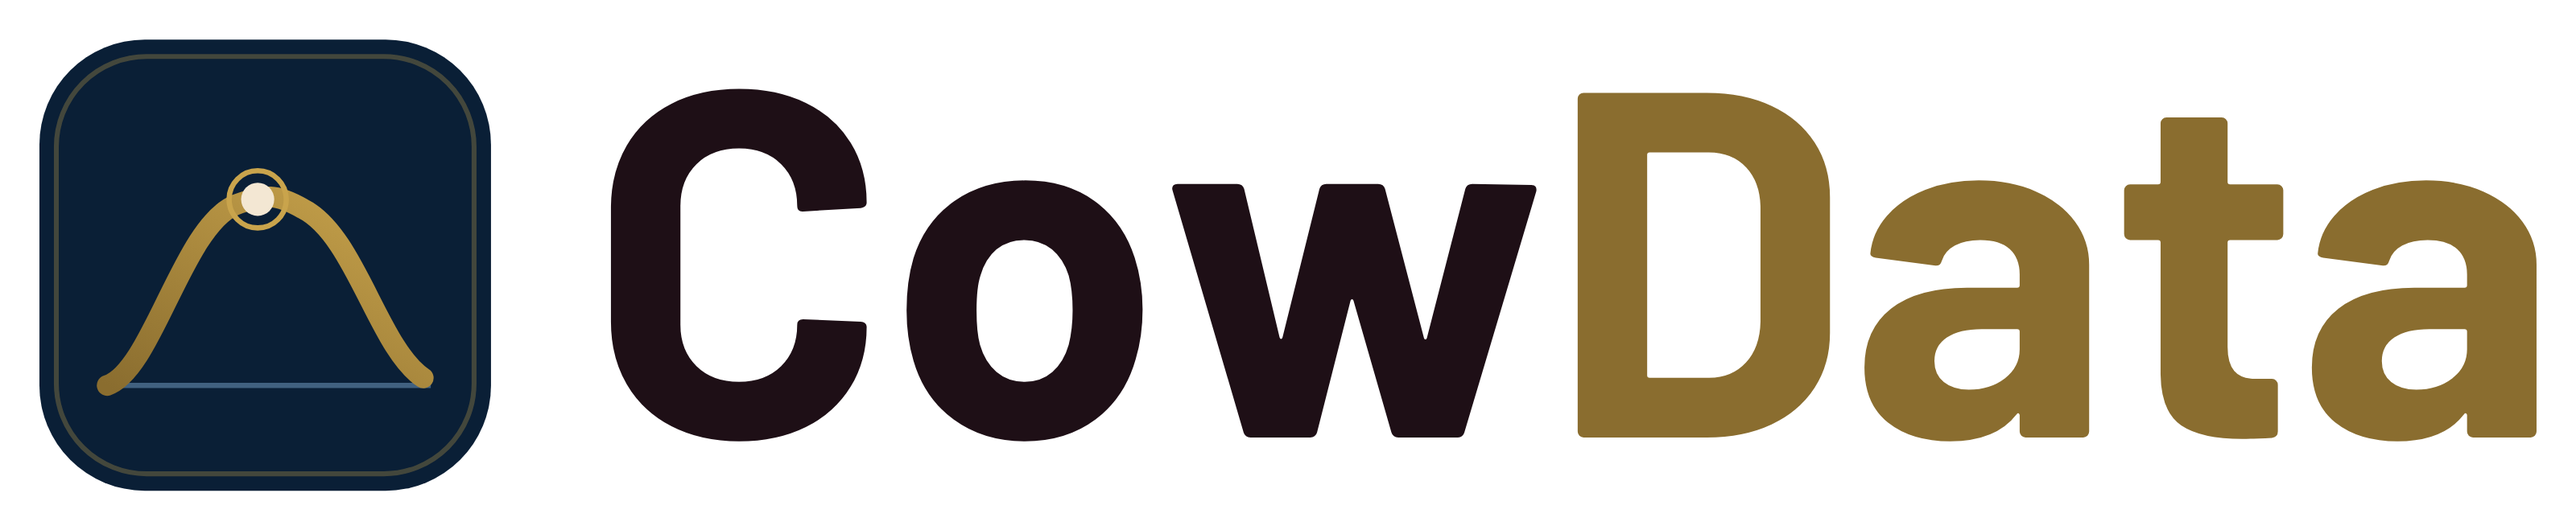
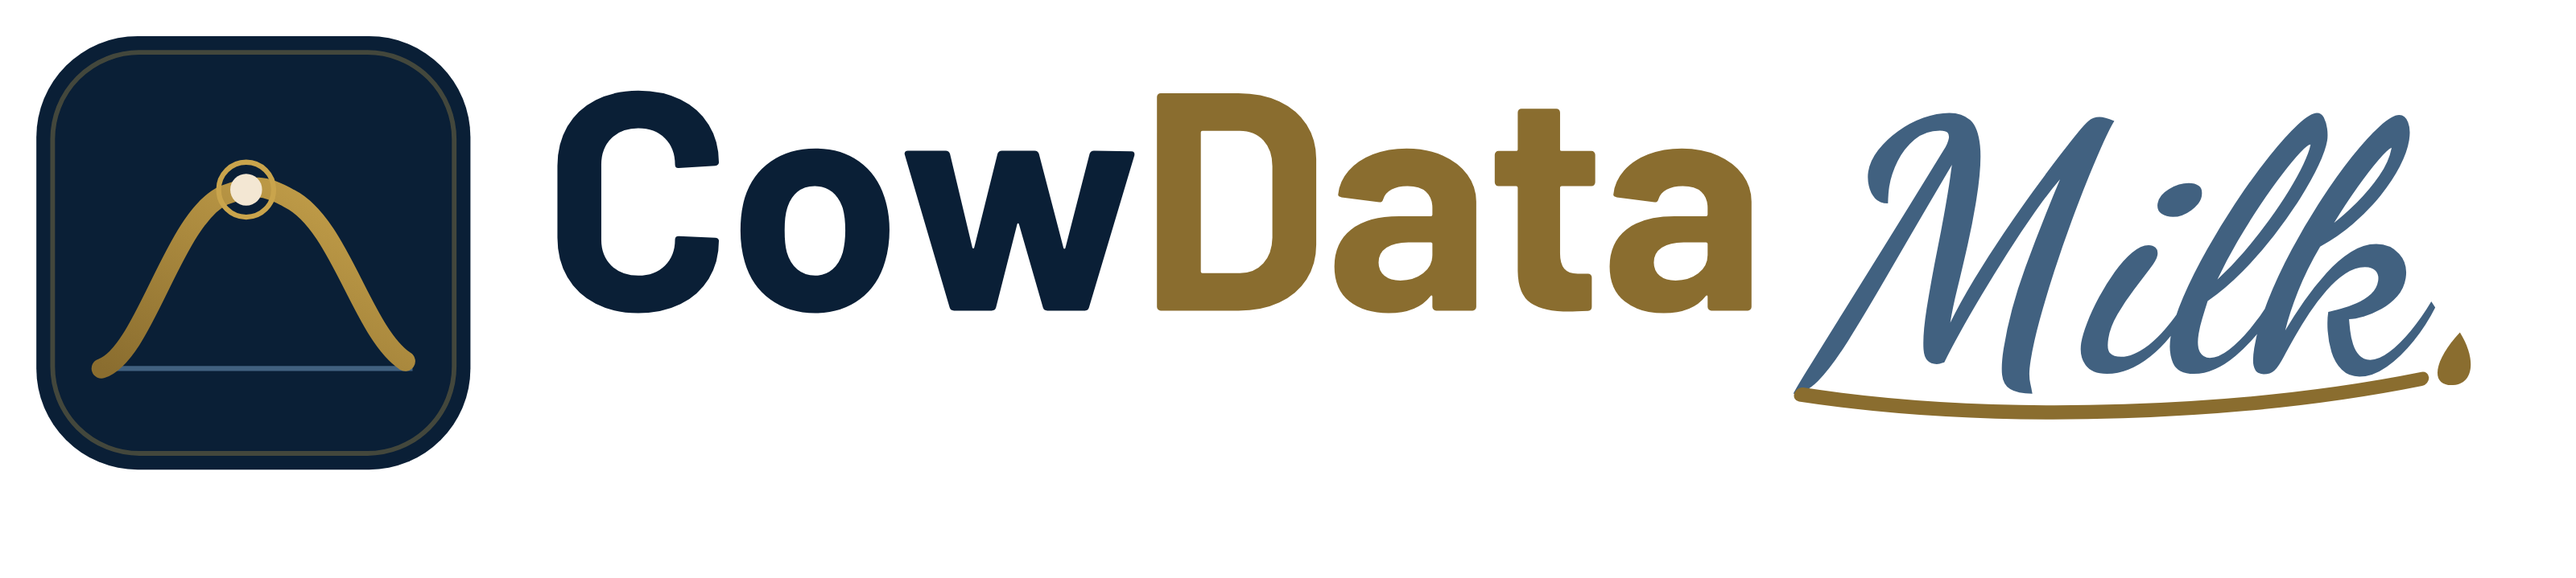
feat(marca): logomarca CowData Milk (Milk cursivo com floreio e gota) em todo o site, PDFs, contrato, manual e APK offline
- CowDataWordmark desenha o Milk em contornos (milkPath.ts); produto={null} mantém só CowData no Painel CowData
- token --marca-milk por tema; arquivos public/brand regenerados (+ versão escura e PNG de PDF)
- cabeçalho de todo PDF do front (lib/export.ts), Manual da Fazenda (backend), contrato de licença e offline.html do APK
- DESIGN.md: seção da logomarca; teste backend test_marca_milk

Claude-Session: https://claude.ai/code/session_01LjZ7JqQ73i6vuJgSUwAkyY

diff --git a/frontend/capacitor-www/offline.html b/frontend/capacitor-www/offline.html
@@ -21,6 +21,7 @@
 </style>
 </head>
 <body>
[1 lines of base64/hex data omitted]
   <h1 id="titulo">Sem conexão</h1>
   <p id="mensagem">Carregando…</p>
   <button onclick="tentarAgora()">Tentar de novo</button>

diff --git a/backend/fazenda/templates/contrato_cowdata.html b/backend/fazenda/templates/contrato_cowdata.html
@@ -91,7 +91,7 @@
         <circle cx="58" cy="42.5" r="9.5" fill="none" stroke="#E0A63C" stroke-width="1.6"/>
       </svg>
     </div>
-    <div class="wordmark"><span class="cow">Cow</span><span class="data">Data</span></div>
+    <div class="wordmark"><span class="cow">Cow</span><span class="data">Data</span><span style="position:relative;display:inline-block;width:2.37em;height:0;"><svg viewBox="0 -100 236.6 150" width="2.37em" height="1.5em" style="position:absolute;left:0;top:-1em;overflow:visible;"><g transform="translate(12 17) skewX(-9)"><path d="M-0.6 9.7Q0 8.1 2.7 2.1Q5.5 -3.9 10.1 -13.9Q14.8 -24 21.2 -37.7Q27.6 -51.5 35.4 -68.8Q35.8 -69.7 36.1 -70.7Q36.4 -71.7 36.4 -72.5Q36.4 -73.6 35.7 -74.3Q35.1 -74.9 33.2 -74.9Q28.4 -74.9 25.5 -72.1Q22.5 -69.2 21.1 -65.1Q19.7 -60.9 19.7 -56.9Q19.7 -55.9 19.8 -54.5Q19.9 -53.2 20.2 -51.5Q17.5 -51.5 15.7 -53.1Q14 -54.8 13.1 -57.2Q12.2 -59.6 12.2 -61.7Q12.2 -65.3 14.3 -68.7Q16.4 -72 19.7 -74.8Q23.1 -77.5 27.2 -79.1Q31.2 -80.6 35.3 -80.6Q39.4 -80.6 42.3 -78.3Q45.2 -76 46.8 -70.1Q48.4 -64.1 48.4 -52.9Q48.4 -45.6 47.9 -38.1Q47.4 -30.7 46.8 -24.2Q46.3 -17.7 46.3 -13.1Q48.5 -19.7 51.8 -27.2Q55.1 -34.6 58.9 -41.9Q62.7 -49.3 66.4 -55.8Q70.1 -62.3 73.1 -67.1Q76 -72 77.6 -74.4Q79.2 -76.8 80.4 -78.1Q81.6 -79.3 83.8 -79.3Q85.3 -79.3 88.7 -78.1Q87.7 -75.9 86.4 -71.3Q85 -66.6 83.4 -60.5Q81.8 -53.8 80.1 -45.8Q78.4 -37.7 77.1 -29.6Q75.7 -21.4 74.9 -14.1Q74 -6.7 74 -1.1Q74 1.8 74.3 3.5Q74.6 5.2 75.1 6.4Q75.6 7.7 76.3 9.7Q71.5 9.7 68.9 8.3Q66.4 6.8 65.6 3.6Q64.7 0.4 64.7 -4.8Q64.7 -17.2 67.6 -31Q70.4 -44.7 74.3 -59.2Q71.1 -54.8 67.8 -48.6Q64.4 -42.4 61.2 -35.6Q57.9 -28.8 55 -22.1Q52.1 -15.5 49.8 -9.8Q47.6 -4.1 46.4 -0.3Q45.4 0 45 0.1Q44.6 0.2 44 0.2Q40.1 0.2 39 -4.5Q38 -9.3 38 -17.6Q38 -22 38.1 -26.9Q38.2 -31.9 38.4 -37.1Q38.6 -42.3 38.8 -47.5Q38.9 -52.6 38.9 -57.3Q38.9 -59 38.8 -60.7Q38.8 -62.4 38.8 -64Q30.2 -44.1 24.4 -30.1Q18.5 -16 14.3 -7.2Q10.2 1.6 6.7 5.7Q3.2 9.7 -0.6 9.7Z M99.2 3.4Q94.3 3.4 91.8 0.4Q89.4 -2.5 89.4 -6.6Q89.4 -9.2 90.3 -13.1Q91.2 -17 92.8 -21.3Q94.4 -25.6 96.5 -29.5Q98.7 -33.3 101.1 -35.7Q103.6 -38.1 106.1 -38.1Q107.4 -38.1 108.4 -37.3Q109.4 -36.5 109.4 -34.8Q109.4 -33.4 107.7 -30.5Q106 -27.6 103.7 -23.7Q101.4 -19.9 99.6 -15.8Q97.9 -11.8 97.9 -8.1Q97.9 -4.5 99.2 -3.3Q100.5 -2.1 102.9 -2.1Q106.7 -2.1 111.2 -5.9Q115.7 -9.7 120.5 -19.3L122.2 -17.5Q118.3 -7.6 112.2 -2.1Q106.2 3.4 99.2 3.4ZM112.4 -47.2Q110.3 -47.2 108.6 -48.2Q106.8 -49.3 106.8 -51.5Q106.8 -54.2 109.8 -56.1Q112.7 -58 115.8 -58Q117.8 -58 119.2 -57.1Q120.6 -56.2 120.6 -53.9Q120.6 -51.5 118 -49.3Q115.5 -47.2 112.4 -47.2Z M127.2 3.4Q122 3.4 119.9 -0.2Q117.8 -3.7 117.8 -8.5Q117.8 -14 119.8 -21.4Q121.9 -28.8 125.2 -36.9Q128.5 -45 132.4 -52.8Q136.4 -60.6 140.4 -66.9Q144.5 -73.1 147.9 -76.9Q151.3 -80.6 153.4 -80.6Q154.9 -80.6 155.9 -79.1Q156.9 -77.6 157.5 -75.5Q158.1 -73.5 158.1 -71.7Q158.1 -68.7 156.6 -63.8Q155.1 -58.9 152.4 -53.1Q149.6 -47.3 145.9 -41.2Q142.1 -35.1 137.6 -29.6Q133.1 -24.1 127.9 -20Q127.5 -17.2 127.1 -14.5Q126.7 -11.8 126.7 -9.5Q126.7 -5.5 128 -3.6Q129.4 -1.8 131.5 -1.8Q134.3 -1.8 137.3 -4.4Q140.2 -7.1 143 -11.1Q145.7 -15.2 147.7 -19.6L150.4 -18.1Q145.6 -8.2 139.7 -2.4Q133.7 3.4 127.2 3.4ZM129.9 -27Q133.7 -31.1 137.1 -36Q140.6 -40.9 143.4 -45.9Q146.3 -51 148.4 -55.7Q150.5 -60.4 151.7 -64.1Q152.9 -67.9 153 -70.1Q153 -70.2 153 -70.3Q153 -70.3 153 -70.4Q152.1 -70.4 150.1 -67.9Q148.2 -65.4 145.5 -61Q142.8 -56.7 139.9 -51.1Q137.1 -45.5 134.5 -39.3Q131.8 -33 129.9 -27Z M180.5 4.3Q177.1 4.3 174.5 2Q171.9 -0.2 170.4 -3.6Q168.8 -6.9 168 -10.5Q167.2 -14 167.2 -16.6Q168.8 -16.9 171.1 -17.6Q173.5 -18.3 176 -19.4Q178.4 -20.6 180 -22.3Q181.7 -24.1 181.7 -26.5Q181.7 -28.6 180.4 -29.8Q179.1 -31 176.7 -31Q173.6 -31 170.8 -29Q168 -26.9 165.6 -23.5Q163.2 -20.2 161.2 -16.2Q159.3 -12.3 157.8 -8.6Q156.2 -4.9 155.2 -2.2Q154 1.1 152.9 2.3Q151.8 3.5 149.6 3.5Q148.8 3.5 147.8 3Q146.7 2.6 146 0.8Q145.3 -1 145.3 -4.9Q145.3 -11.8 147.2 -19.9Q149.1 -28.1 152.3 -36.6Q155.5 -45 159.3 -52.8Q163.1 -60.5 167 -66.6Q170.9 -72.8 174.3 -76.4Q177.7 -80 180 -80Q181.9 -80 183.2 -77.7Q184.5 -75.4 184.5 -71.8Q184.5 -68 182.8 -63.3Q181.1 -58.7 178 -53.9Q174.9 -49.2 170.7 -44.9Q166.4 -40.7 161.3 -37.6Q158.1 -30.4 156.5 -23.2Q154.8 -16.1 154.3 -10.6Q156.4 -15.2 158.9 -20Q161.5 -24.9 164.6 -29.1Q167.8 -33.3 171.4 -35.8Q175.1 -38.4 179.2 -38.4Q183.7 -38.4 187 -35.3Q190.4 -32.1 190.4 -27.4Q190.4 -24.1 188.6 -21.6Q186.8 -19.2 184.2 -17.5Q181.6 -15.9 178.9 -15.1Q176.2 -14.3 174.3 -14.2Q174.6 -12.8 175.2 -10.5Q175.8 -8.3 176.8 -6.2Q177.9 -4 179.4 -2.6Q181 -1.1 183.1 -1.1Q185.9 -1.1 188.9 -3.7Q191.9 -6.3 194.7 -10.5Q197.6 -14.8 199.8 -19.9L201.4 -18Q199.5 -12.4 196.2 -7.3Q192.9 -2.1 188.8 1.1Q184.8 4.3 180.5 4.3ZM164.5 -45.2Q167.6 -47.9 170.9 -51.9Q174.3 -55.9 176.7 -60.4Q179.1 -65 179.2 -69.1Q179.2 -69.2 179.2 -69.3Q179.2 -69.3 179.2 -69.4Q178.1 -69 175.7 -65.6Q173.3 -62.2 170.4 -56.9Q167.4 -51.6 164.5 -45.2Z" fill="#416180"/><path d="M2 10 C68.9 20 147.6 16 200.7 5" fill="none" stroke="#E0A63C" stroke-width="4.5" stroke-linecap="round"/><path d="M210.6 -10 C217.6 -1 217.6 7 210.6 7 C203.6 7 203.6 -1 210.6 -10Z" fill="#E0A63C"/></g></svg></span></div>
   </div>
   <div class="subtitulo-marca">Gestão de Pecuária Leiteira</div>
 </header>

diff --git a/frontend/components/brand/milkPath.ts b/frontend/components/brand/milkPath.ts
@@ -1,0 +1,11 @@
+// Gerado a partir da Dancing Script Bold (OFL) — contornos, não texto: a marca
+// "Milk" não depende de a fonte estar carregada. Unidades: 100 = 1em do
+// "CowData" ao lado; a origem (0,0) é a linha de base do CowData.
+// Não editar à mão (ver docs/COWDATA_LINKS.md > identidade visual).
+export const MILK_VIEW_W = 236.6;
+export const MILK_GLYPHS = "M-0.6 9.7Q0 8.1 2.7 2.1Q5.5 -3.9 10.1 -13.9Q14.8 -24 21.2 -37.7Q27.6 -51.5 35.4 -68.8Q35.8 -69.7 36.1 -70.7Q36.4 -71.7 36.4 -72.5Q36.4 -73.6 35.7 -74.3Q35.1 -74.9 33.2 -74.9Q28.4 -74.9 25.5 -72.1Q22.5 -69.2 21.1 -65.1Q19.7 -60.9 19.7 -56.9Q19.7 -55.9 19.8 -54.5Q19.9 -53.2 20.2 -51.5Q17.5 -51.5 15.7 -53.1Q14 -54.8 13.1 -57.2Q12.2 -59.6 12.2 -61.7Q12.2 -65.3 14.3 -68.7Q16.4 -72 19.7 -74.8Q23.1 -77.5 27.2 -79.1Q31.2 -80.6 35.3 -80.6Q39.4 -80.6 42.3 -78.3Q45.2 -76 46.8 -70.1Q48.4 -64.1 48.4 -52.9Q48.4 -45.6 47.9 -38.1Q47.4 -30.7 46.8 -24.2Q46.3 -17.7 46.3 -13.1Q48.5 -19.7 51.8 -27.2Q55.1 -34.6 58.9 -41.9Q62.7 -49.3 66.4 -55.8Q70.1 -62.3 73.1 -67.1Q76 -72 77.6 -74.4Q79.2 -76.8 80.4 -78.1Q81.6 -79.3 83.8 -79.3Q85.3 -79.3 88.7 -78.1Q87.7 -75.9 86.4 -71.3Q85 -66.6 83.4 -60.5Q81.8 -53.8 80.1 -45.8Q78.4 -37.7 77.1 -29.6Q75.7 -21.4 74.9 -14.1Q74 -6.7 74 -1.1Q74 1.8 74.3 3.5Q74.6 5.2 75.1 6.4Q75.6 7.7 76.3 9.7Q71.5 9.7 68.9 8.3Q66.4 6.8 65.6 3.6Q64.7 0.4 64.7 -4.8Q64.7 -17.2 67.6 -31Q70.4 -44.7 74.3 -59.2Q71.1 -54.8 67.8 -48.6Q64.4 -42.4 61.2 -35.6Q57.9 -28.8 55 -22.1Q52.1 -15.5 49.8 -9.8Q47.6 -4.1 46.4 -0.3Q45.4 0 45 0.1Q44.6 0.2 44 0.2Q40.1 0.2 39 -4.5Q38 -9.3 38 -17.6Q38 -22 38.1 -26.9Q38.2 -31.9 38.4 -37.1Q38.6 -42.3 38.8 -47.5Q38.9 -52.6 38.9 -57.3Q38.9 -59 38.8 -60.7Q38.8 -62.4 38.8 -64Q30.2 -44.1 24.4 -30.1Q18.5 -16 14.3 -7.2Q10.2 1.6 6.7 5.7Q3.2 9.7 -0.6 9.7Z M99.2 3.4Q94.3 3.4 91.8 0.4Q89.4 -2.5 89.4 -6.6Q89.4 -9.2 90.3 -13.1Q91.2 -17 92.8 -21.3Q94.4 -25.6 96.5 -29.5Q98.7 -33.3 101.1 -35.7Q103.6 -38.1 106.1 -38.1Q107.4 -38.1 108.4 -37.3Q109.4 -36.5 109.4 -34.8Q109.4 -33.4 107.7 -30.5Q106 -27.6 103.7 -23.7Q101.4 -19.9 99.6 -15.8Q97.9 -11.8 97.9 -8.1Q97.9 -4.5 99.2 -3.3Q100.5 -2.1 102.9 -2.1Q106.7 -2.1 111.2 -5.9Q115.7 -9.7 120.5 -19.3L122.2 -17.5Q118.3 -7.6 112.2 -2.1Q106.2 3.4 99.2 3.4ZM112.4 -47.2Q110.3 -47.2 108.6 -48.2Q106.8 -49.3 106.8 -51.5Q106.8 -54.2 109.8 -56.1Q112.7 -58 115.8 -58Q117.8 -58 119.2 -57.1Q120.6 -56.2 120.6 -53.9Q120.6 -51.5 118 -49.3Q115.5 -47.2 112.4 -47.2Z M127.2 3.4Q122 3.4 119.9 -0.2Q117.8 -3.7 117.8 -8.5Q117.8 -14 119.8 -21.4Q121.9 -28.8 125.2 -36.9Q128.5 -45 132.4 -52.8Q136.4 -60.6 140.4 -66.9Q144.5 -73.1 147.9 -76.9Q151.3 -80.6 153.4 -80.6Q154.9 -80.6 155.9 -79.1Q156.9 -77.6 157.5 -75.5Q158.1 -73.5 158.1 -71.7Q158.1 -68.7 156.6 -63.8Q155.1 -58.9 152.4 -53.1Q149.6 -47.3 145.9 -41.2Q142.1 -35.1 137.6 -29.6Q133.1 -24.1 127.9 -20Q127.5 -17.2 127.1 -14.5Q126.7 -11.8 126.7 -9.5Q126.7 -5.5 128 -3.6Q129.4 -1.8 131.5 -1.8Q134.3 -1.8 137.3 -4.4Q140.2 -7.1 143 -11.1Q145.7 -15.2 147.7 -19.6L150.4 -18.1Q145.6 -8.2 139.7 -2.4Q133.7 3.4 127.2 3.4ZM129.9 -27Q133.7 -31.1 137.1 -36Q140.6 -40.9 143.4 -45.9Q146.3 -51 148.4 -55.7Q150.5 -60.4 151.7 -64.1Q152.9 -67.9 153 -70.1Q153 -70.2 153 -70.3Q153 -70.3 153 -70.4Q152.1 -70.4 150.1 -67.9Q148.2 -65.4 145.5 -61Q142.8 -56.7 139.9 -51.1Q137.1 -45.5 134.5 -39.3Q131.8 -33 129.9 -27Z M180.5 4.3Q177.1 4.3 174.5 2Q171.9 -0.2 170.4 -3.6Q168.8 -6.9 168 -10.5Q167.2 -14 167.2 -16.6Q168.8 -16.9 171.1 -17.6Q173.5 -18.3 176 -19.4Q178.4 -20.6 180 -22.3Q181.7 -24.1 181.7 -26.5Q181.7 -28.6 180.4 -29.8Q179.1 -31 176.7 -31Q173.6 -31 170.8 -29Q168 -26.9 165.6 -23.5Q163.2 -20.2 161.2 -16.2Q159.3 -12.3 157.8 -8.6Q156.2 -4.9 155.2 -2.2Q154 1.1 152.9 2.3Q151.8 3.5 149.6 3.5Q148.8 3.5 147.8 3Q146.7 2.6 146 0.8Q145.3 -1 145.3 -4.9Q145.3 -11.8 147.2 -19.9Q149.1 -28.1 152.3 -36.6Q155.5 -45 159.3 -52.8Q163.1 -60.5 167 -66.6Q170.9 -72.8 174.3 -76.4Q177.7 -80 180 -80Q181.9 -80 183.2 -77.7Q184.5 -75.4 184.5 -71.8Q184.5 -68 182.8 -63.3Q181.1 -58.7 178 -53.9Q174.9 -49.2 170.7 -44.9Q166.4 -40.7 161.3 -37.6Q158.1 -30.4 156.5 -23.2Q154.8 -16.1 154.3 -10.6Q156.4 -15.2 158.9 -20Q161.5 -24.9 164.6 -29.1Q167.8 -33.3 171.4 -35.8Q175.1 -38.4 179.2 -38.4Q183.7 -38.4 187 -35.3Q190.4 -32.1 190.4 -27.4Q190.4 -24.1 188.6 -21.6Q186.8 -19.2 184.2 -17.5Q181.6 -15.9 178.9 -15.1Q176.2 -14.3 174.3 -14.2Q174.6 -12.8 175.2 -10.5Q175.8 -8.3 176.8 -6.2Q177.9 -4 179.4 -2.6Q181 -1.1 183.1 -1.1Q185.9 -1.1 188.9 -3.7Q191.9 -6.3 194.7 -10.5Q197.6 -14.8 199.8 -19.9L201.4 -18Q199.5 -12.4 196.2 -7.3Q192.9 -2.1 188.8 1.1Q184.8 4.3 180.5 4.3ZM164.5 -45.2Q167.6 -47.9 170.9 -51.9Q174.3 -55.9 176.7 -60.4Q179.1 -65 179.2 -69.1Q179.2 -69.2 179.2 -69.3Q179.2 -69.3 179.2 -69.4Q178.1 -69 175.7 -65.6Q173.3 -62.2 170.4 -56.9Q167.4 -51.6 164.5 -45.2Z";
+export const MILK_FLORIO = "M2 10 C68.9 20 147.6 16 200.7 5";
+export const MILK_GOTA = "M210.6 -10 C217.6 -1 217.6 7 210.6 7 C203.6 7 203.6 -1 210.6 -10Z";
+export const MILK_FLORIO_STROKE = 4.5;
+// translate(12, 17) skewX(-9): "Milk" um pouco abaixo da linha do CowData e inclinado.
+export const MILK_TRANSFORM = "translate(12 17) skewX(-9)";

diff --git a/frontend/components/CowDataWordmark.tsx b/frontend/components/CowDataWordmark.tsx
@@ -1,24 +1,48 @@
+import { MILK_FLORIO, MILK_FLORIO_STROKE, MILK_GLYPHS, MILK_GOTA, MILK_TRANSFORM, MILK_VIEW_W } from "@/components/brand/milkPath";
+
 /**
- * Wordmark da marca CowData — "Cow" + "Data" em dois tons, sem ilustração
- * (ver design "CowData - 6 Aplicacoes da Logo"). "Data" usa o dourado da
- * marca (var(--dourado-light) — já reage a tema/paleta sozinho). "Cow" usa
- * a cor de texto certa para o fundo onde a marca está sentada — por isso é
- * parametrizável (o fundo varia: branco no site claro, vinho/verde no
- * misto, escuro no site/app escuro).
+ * Wordmark da marca "CowData Milk": "Cow" + "Data" em dois tons e "Milk"
+ * em cursiva inclinada, um pouco abaixo da linha do CowData, com um floreio
+ * dourado que termina numa gota de leite (logomarca aprovada em 24/10/2026).
+ * "Data" e o floreio usam o dourado da marca (var(--dourado-light) — já
+ * reage a tema/paleta sozinho). "Cow" usa a cor de texto certa para o fundo
+ * onde a marca está sentada, por isso é parametrizável. "Milk" usa
+ * --marca-milk (azul-aço no claro, azul-claro no escuro) ou `milkColor`.
+ *
+ * `produto={null}` desenha só "CowData" — é a marca da empresa, usada no
+ * Painel CowData (plataforma, que não é o produto Milk).
  */
 export function CowDataWordmark({
   size = "0.8rem",
   cowColor = "var(--text)",
   dataColor = "var(--dourado-light)",
+  milkColor = "var(--marca-milk, #416180)",
+  produto = "milk",
 }: {
   size?: string | number;
   cowColor?: string;
   dataColor?: string;
+  milkColor?: string;
+  produto?: "milk" | null;
 }) {
+  const largura = `${MILK_VIEW_W / 100}em`;
   return (
-    <span style={{ fontWeight: 800, letterSpacing: "-0.01em", fontSize: size, whiteSpace: "nowrap" }}>
-      <span style={{ color: cowColor }}>Cow</span>
-      <span style={{ color: dataColor }}>Data</span>
+    <span style={{ fontWeight: 800, letterSpacing: "-0.01em", fontSize: size, whiteSpace: "nowrap" }} aria-label={produto ? "CowData Milk" : "CowData"}>
+      <span style={{ color: cowColor }} aria-hidden="true">Cow</span>
+      <span style={{ color: dataColor }} aria-hidden="true">Data</span>
+      {produto === "milk" && (
+        <span aria-hidden="true" style={{ position: "relative", display: "inline-block", width: largura, height: 0 }}>
+          <svg viewBox={`0 -100 ${MILK_VIEW_W} 150`} width={largura} height="1.5em"
+            style={{ position: "absolute", left: 0, top: "-1em", overflow: "visible" }}>
+            <g transform={MILK_TRANSFORM}>
+              {/* traço de 1,8% do em engrossa a cursiva para ela não sumir em tamanho pequeno */}
+              <path d={MILK_GLYPHS} fill={milkColor} stroke={milkColor} strokeWidth={1.8} strokeLinejoin="round" />
+              <path d={MILK_FLORIO} fill="none" stroke={dataColor} strokeWidth={MILK_FLORIO_STROKE} strokeLinecap="round" />
+              <path d={MILK_GOTA} fill={dataColor} />
+            </g>
+          </svg>
+        </span>
+      )}
     </span>
   );
 }

diff --git a/frontend/lib/export.ts b/frontend/lib/export.ts
@@ -109,12 +109,12 @@ async function comAlertaDeErro<T>(fn: () => Promise<T>): Promise<T> {
   }
 }
 
-// Marca CowData rasterizada (public/brand/cowdata-mark.svg), carregada uma
+// Logomarca CowData Milk rasterizada (public/brand/cowdata-horizontal-pdf.png), carregada uma
 // única vez por sessão e reutilizada no cabeçalho de todo PDF exportado.
 let logoDataUrlPromise: Promise<string | null> | null = null;
 async function carregarLogo(): Promise<string | null> {
   if (!logoDataUrlPromise) {
-    logoDataUrlPromise = fetch("/brand/cowdata-mark-tile.png")
+    logoDataUrlPromise = fetch("/brand/cowdata-horizontal-pdf.png")
       .then((r) => r.blob())
       .then(
         (blob) =>
@@ -131,7 +131,7 @@ async function carregarLogo(): Promise<string | null> {
 }
 
 /** Cabeçalho padrão de PDF: fazenda (eyebrow) + título + subtítulo à
- * esquerda; marca CowData + autor/data à direita; linha de base sutil. */
+ * esquerda; logomarca CowData Milk + autor/data à direita; linha de base sutil. */
 function desenharCabecalhoPDF(
   doc: import("jspdf").jsPDF,
   opts: { titulo: string; subtitulo?: string; usuario?: string; dataStr: string; logo: string | null; emissor?: string; fazenda?: string },
@@ -168,8 +168,9 @@ function desenharCabecalhoPDF(
 
   const right = pageWidth - 14;
   if (opts.logo) {
-    const tile = 8;
-    doc.addImage(opts.logo, "PNG", right - tile, 6, tile, tile);
+    // Proporção do PNG da logomarca horizontal (900 x 202 px).
+    const larg = 36;
+    doc.addImage(opts.logo, "PNG", right - larg, 4.6, larg, larg * 202 / 900);
   }
   doc.setFont("helvetica", "normal");
   doc.setFontSize(7);

diff --git a/frontend/app/globals.css b/frontend/app/globals.css
@@ -65,6 +65,7 @@
   --ft-ouro: #C9A44C; --ft-ouro-txt: #E4C374; --ft-ouro-tint: rgba(201,164,76,.13); --ft-ouro-glow: rgba(201,164,76,.55);
   --ft-aco: #7FA6CC; --ft-ambar: #E8A33D; --ft-verde: #5CC08D; --ft-verm: #F0705E;
   color-scheme: dark;
+  --marca-milk: #9DB4CC; /* "Milk" da logomarca CowData Milk (azul-claro no escuro) */
   --vinho:       var(--wine);
   --vinho-light: var(--wine-lt);
   --vinho-dark:  color-mix(in srgb, var(--wine) 55%, var(--ink) 45%);
@@ -147,6 +148,7 @@
    Trocado do creme original (Direção B) a pedido explícito do usuário —
    mesma estrutura de tokens, só a base neutra deixou de ter viés amarelo. */
 :root[data-theme="claro"] {
+  --marca-milk: #416180; /* azul-aço no claro */
   --ft-ouro: #8A6D2F; --ft-ouro-txt: #765B1B; --ft-ouro-tint: rgba(138,109,47,.10); --ft-ouro-glow: rgba(138,109,47,.40);
   --ft-aco: #416180; --ft-ambar: #A8560A; --ft-verde: #2E7D52; --ft-verm: #B3301F;
   color-scheme: light;
@@ -203,6 +205,7 @@
 
 /* ── Tema MISTO — conteúdo claro, barra lateral vinho sólido ── */
 :root[data-theme="misto"] {
+  --marca-milk: #416180; /* azul-aço no claro */
   --ft-ouro: #8A6D2F; --ft-ouro-txt: #765B1B; --ft-ouro-tint: rgba(138,109,47,.10); --ft-ouro-glow: rgba(138,109,47,.40);
   --ft-aco: #416180; --ft-ambar: #A8560A; --ft-verde: #2E7D52; --ft-verm: #B3301F;
   color-scheme: light;

diff --git a/frontend/app/painel-cowdata/layout.tsx b/frontend/app/painel-cowdata/layout.tsx
@@ -239,7 +239,7 @@ function PainelCowDataShell({ children }: { children: React.ReactNode }) {
         </Link>
         <div style={{ display: "flex", flexDirection: "column", gap: "0.3rem" }}>
           <CowDataMark size={40} />
-          <CowDataWordmark size="1.1rem" cowColor={COR.textoPainel} dataColor={COR.doradoClaro} />
+          <CowDataWordmark size="1.1rem" cowColor={COR.textoPainel} dataColor={COR.doradoClaro} produto={null} />
         </div>
         <p style={{ fontSize: "0.62rem", color: COR.mudo, textTransform: "uppercase", letterSpacing: "0.08em", marginTop: "0.4rem" }}>
           Painel da empresa
@@ -358,7 +358,7 @@ function PainelCowDataShell({ children }: { children: React.ReactNode }) {
           style={{ background: "none", border: "none", color: COR.textoPainel, cursor: "pointer", display: "flex" }}>
           <Menu size={22} />
         </button>
-        <CowDataWordmark size="0.85rem" cowColor={COR.textoPainel} dataColor={COR.doradoClaro} />
+        <CowDataWordmark size="0.85rem" cowColor={COR.textoPainel} dataColor={COR.doradoClaro} produto={null} />
         <span style={{ color: COR.mudo, fontSize: "0.7rem" }}>· Painel da empresa</span>
       </div>
       <div className="md:hidden" style={{ height: "calc(3.25rem + env(safe-area-inset-top, 0px))" }} aria-hidden="true" />

diff --git a/frontend/components/institucional/PublicShell.tsx b/frontend/components/institucional/PublicShell.tsx
@@ -37,7 +37,7 @@ export function PublicHeader({ variant = "institucional" }: { variant?: "login" 
       <Link href="/login" style={{ display: "flex", alignItems: "center", gap: "0.55rem", textDecoration: "none" }}>
         <CowDataMark size={30} />
         <div>
-          <CowDataWordmark size="1rem" cowColor="#F5EEF1" />
+          <CowDataWordmark size="1rem" cowColor="#F5EEF1" milkColor="#9DB4CC" />
           <p style={{ margin: 0, fontSize: "0.65rem", color: "rgba(245,238,241,0.6)" }}>Estreito Ponte de Pedra · Jairo Nasser</p>
         </div>
       </Link>
@@ -75,7 +75,7 @@ export function PublicFooter() {
           48+ testes automatizados das regras de negócio · construído com dados reais da Fazenda Estreito Ponte de Pedra
         </p>
         <p style={{ margin: 0, fontSize: "0.75rem", color: "rgba(245,238,241,0.45)" }}>
-          CowData · Estreito Ponte de Pedra · Jairo Nasser
+          CowData Milk · Estreito Ponte de Pedra · Jairo Nasser
         </p>
       </div>
       {/* Só links que já existem de verdade no site — nada de "Contato"/

diff --git a/frontend/app/app/layout.tsx b/frontend/app/app/layout.tsx
@@ -185,7 +185,7 @@ export default function AppLayout({ children }: { children: React.ReactNode }) {
           <div>
             <p style={{ display: "flex", alignItems: "center", gap: "0.45rem" }}>
               <CowDataMark size={22} />
-              <CowDataWordmark size="1rem" cowColor="var(--mob-header-fg)" dataColor="var(--mob-dourado-2)" />
+              <CowDataWordmark size="1rem" cowColor="var(--mob-header-fg)" dataColor="var(--mob-dourado-2)" milkColor="#9DB4CC" />
               {/* Bolinha de conexão: verde luminoso quando o SERVIDOR responde de
                   verdade (ping real, não só a rádio do aparelho — ver
                   useConectividadeReal em lib/offline.ts), vermelha quando não. */}

diff --git a/frontend/components/dietas/DietasLayout.tsx b/frontend/components/dietas/DietasLayout.tsx
@@ -65,7 +65,7 @@ export function DietasLayout({ children }: { children: React.ReactNode }) {
           <div style={{ display: "flex", alignItems: "center", gap: "0.7rem" }}>
             <CowDataMark size={34} />
             <div>
-              <CowDataWordmark size="1rem" cowColor="var(--cream)" dataColor={PETROLEO} />
+              <CowDataWordmark size="1rem" cowColor="var(--cream)" dataColor={PETROLEO} milkColor="#9DB4CC" />
               <p style={{ margin: 0, fontSize: "0.68rem", color: "rgba(245,246,244,0.7)", display: "flex", alignItems: "center", gap: "0.35rem" }}>
                 <FlaskConical size={11} /> Formulação de Dietas{fazendaNome ? ` · ${fazendaNome}` : ""}
               </p>

diff --git a/frontend/components/painel-cowdata/mobile/InicioMobilePainelCowData.tsx b/frontend/components/painel-cowdata/mobile/InicioMobilePainelCowData.tsx
@@ -41,7 +41,7 @@ export default function InicioMobilePainelCowData() {
         </Link>
         <div style={{ display: "flex", alignItems: "center", gap: "0.5rem" }}>
           <div style={{ width: 30, height: 30, borderRadius: 2, background: COR.dourado, flexShrink: 0 }} />
-          <CowDataWordmark size="1.15rem" cowColor={COR.textoPainel} dataColor={COR.doradoClaro} />
+          <CowDataWordmark size="1.15rem" cowColor={COR.textoPainel} dataColor={COR.doradoClaro} produto={null} />
         </div>
         <p style={{ fontSize: "0.64rem", color: COR.mudo, textTransform: "uppercase", letterSpacing: "0.08em", margin: "0.45rem 0 0" }}>
           Painel da empresa

diff --git a/frontend/lib/exportAgendaReprodutiva.ts b/frontend/lib/exportAgendaReprodutiva.ts
@@ -199,7 +199,7 @@ export function montarExportacao(e: EntradaExportacao): SaidaExportacao {
           { rotulo: "Neste arquivo", valor: `${listas} ${listas === 1 ? "lista" : "listas"}`, detalhe: `${animais} ${animais === 1 ? "animal" : "animais"}` },
         ],
         legenda,
-        rodape: `CowData · Agenda Reprodutiva · gerado em ${e.geradoEm}`,
+        rodape: `CowData Milk · Agenda Reprodutiva · gerado em ${e.geradoEm}`,
       },
     },
     excel: { titulo: "Agenda Reprodutiva", secoes: secoesExcel, opcoes: { subtitulo: `Filtro: ${filtro} · Referência ${fmtData(e.dataReferencia)}`, congelarCabecalho: true, autofiltro: true, legenda } },
